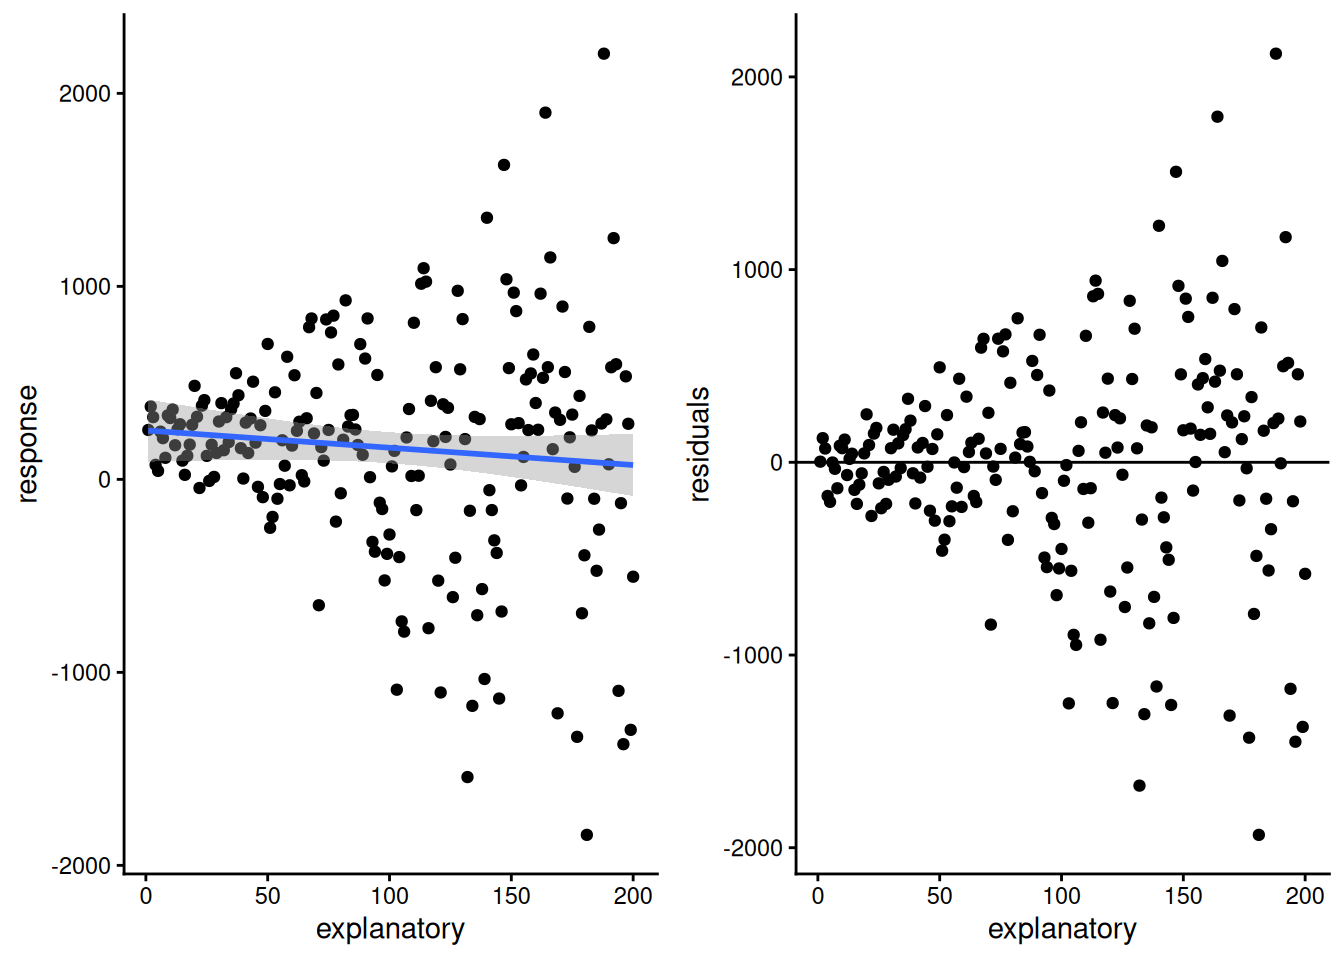
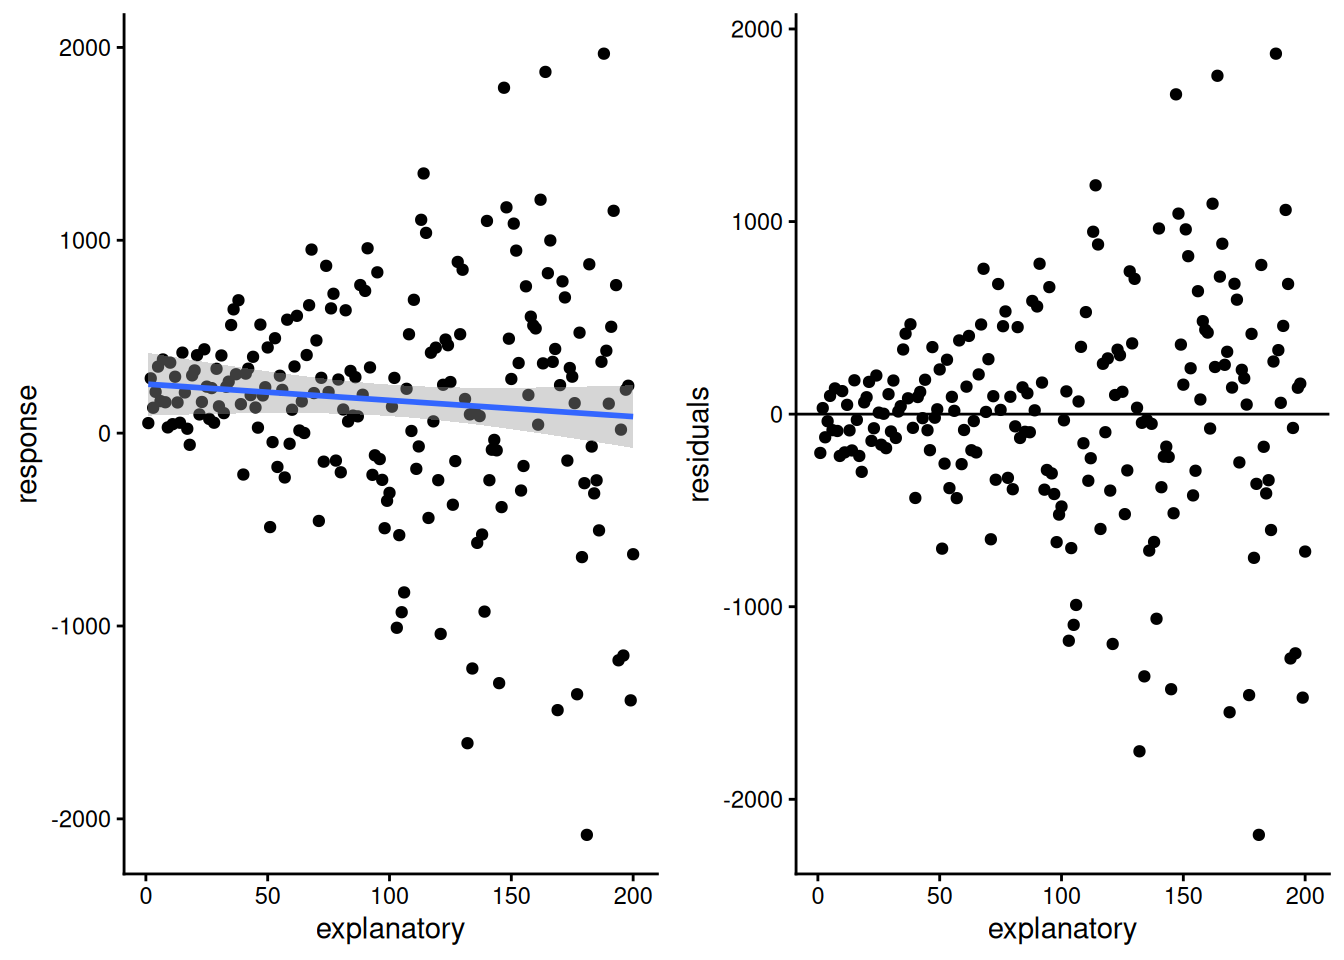
stuff

diff --git a/docs/lm-multiplepredictors.html b/docs/lm-multiplepredictors.html
@@ -630,7 +630,7 @@ Signif. codes:  0 '***' 0.001 '**' 0.01 '*' 0.05 '.' 0.1 ' ' 1</code></pre>
 </div>
 </div>
 <p>In this case the statistical interaction is significant, but much less significant than the main effects. This is telling us that there is a slight difference in slopes between the two species, which we can see in <a href="#fig-interactions" class="quarto-xref">Figure&nbsp;<span>7.1</span></a>.</p>
-<p>In particular, <span class="math inline">\(b_3\)</span> is the difference in slopes between the Chinstrap-only model and the Gentoo-only model. I was really surprised by this but the code below shows this.</p>
+<p>In particular, <span class="math inline">\(b_3\)</span> is the difference in slopes between the Chinstrap-only model and the Gentoo-only model.</p>
 <div class="cell">
 <div class="sourceCode cell-code" id="cb23"><pre class="sourceCode r code-with-copy"><code class="sourceCode r"><span id="cb23-1"><a href="#cb23-1" aria-hidden="true" tabindex="-1"></a>mymodel3<span class="sc">$</span>coefficients</span></code><button title="Copy to Clipboard" class="code-copy-button"><i class="bi"></i></button></pre></div>
 <div class="cell-output cell-output-stdout">
@@ -652,6 +652,44 @@ Signif. codes:  0 '***' 0.001 '**' 0.01 '*' 0.05 '.' 0.1 ' ' 1</code></pre>
                    846.14333                     59.11773 
                speciesGentoo bill_length_mm:speciesGentoo 
                   -969.97126                     50.34143 </code></pre>
+</div>
+</div>
+<p>We can also expand our model to three species, below.</p>
+<div class="cell">
+<div class="sourceCode cell-code" id="cb31"><pre class="sourceCode r code-with-copy"><code class="sourceCode r"><span id="cb31-1"><a href="#cb31-1" aria-hidden="true" tabindex="-1"></a>model7 <span class="ot">&lt;-</span> <span class="fu">lm</span>(body_mass_g<span class="sc">~</span>bill_length_mm<span class="sc">*</span>species,<span class="at">data=</span>penguins)</span>
+<span id="cb31-2"><a href="#cb31-2" aria-hidden="true" tabindex="-1"></a><span class="fu">Anova</span>(model7)</span></code><button title="Copy to Clipboard" class="code-copy-button"><i class="bi"></i></button></pre></div>
+<div class="cell-output cell-output-stdout">
+<pre><code>Anova Table (Type II tests)
+
+Response: body_mass_g
+                         Sum Sq  Df F value  Pr(&gt;F)    
+bill_length_mm         24829776   1  179.62 &lt; 2e-16 ***
+species                94024918   2  340.09 &lt; 2e-16 ***
+bill_length_mm:species  1166702   2    4.22 0.01549 *  
+Residuals              46447006 336                    
+---
+Signif. codes:  0 '***' 0.001 '**' 0.01 '*' 0.05 '.' 0.1 ' ' 1</code></pre>
+</div>
+</div>
+<div class="cell">
+<div class="sourceCode cell-code" id="cb33"><pre class="sourceCode r code-with-copy"><code class="sourceCode r"><span id="cb33-1"><a href="#cb33-1" aria-hidden="true" tabindex="-1"></a><span class="fu">ggplot</span>(penguins)<span class="sc">+</span></span>
+<span id="cb33-2"><a href="#cb33-2" aria-hidden="true" tabindex="-1"></a>  <span class="fu">aes</span>(<span class="at">x =</span> body_mass_g, </span>
+<span id="cb33-3"><a href="#cb33-3" aria-hidden="true" tabindex="-1"></a>                 <span class="at">y =</span> bill_length_mm, </span>
+<span id="cb33-4"><a href="#cb33-4" aria-hidden="true" tabindex="-1"></a>                 <span class="at">color =</span> species) <span class="sc">+</span></span>
+<span id="cb33-5"><a href="#cb33-5" aria-hidden="true" tabindex="-1"></a>  <span class="fu">geom_point</span>() <span class="sc">+</span></span>
+<span id="cb33-6"><a href="#cb33-6" aria-hidden="true" tabindex="-1"></a>  <span class="fu">geom_smooth</span>(<span class="at">method =</span> <span class="st">"lm"</span>, <span class="at">se=</span>F)<span class="sc">+</span></span>
+<span id="cb33-7"><a href="#cb33-7" aria-hidden="true" tabindex="-1"></a>  <span class="fu">theme_classic</span>()</span></code><button title="Copy to Clipboard" class="code-copy-button"><i class="bi"></i></button></pre></div>
+<div class="cell-output-display">
+<div id="fig-interactions-3species" class="quarto-float quarto-figure quarto-figure-center anchored" width="672">
+<figure class="quarto-float quarto-float-fig figure">
+<div aria-describedby="fig-interactions-3species-caption-0ceaefa1-69ba-4598-a22c-09a6ac19f8ca">
+<img src="lm-multiplepredictors_files/figure-html/fig-interactions-3species-1.png" id="fig-interactions-3species" class="img-fluid figure-img" width="672">
+</div>
+<figcaption class="quarto-float-caption-bottom quarto-float-caption quarto-float-fig quarto-uncaptioned" id="fig-interactions-3species-caption-0ceaefa1-69ba-4598-a22c-09a6ac19f8ca">
+Figure&nbsp;7.2
+</figcaption>
+</figure>
+</div>
 </div>
 </div>
 </section>
